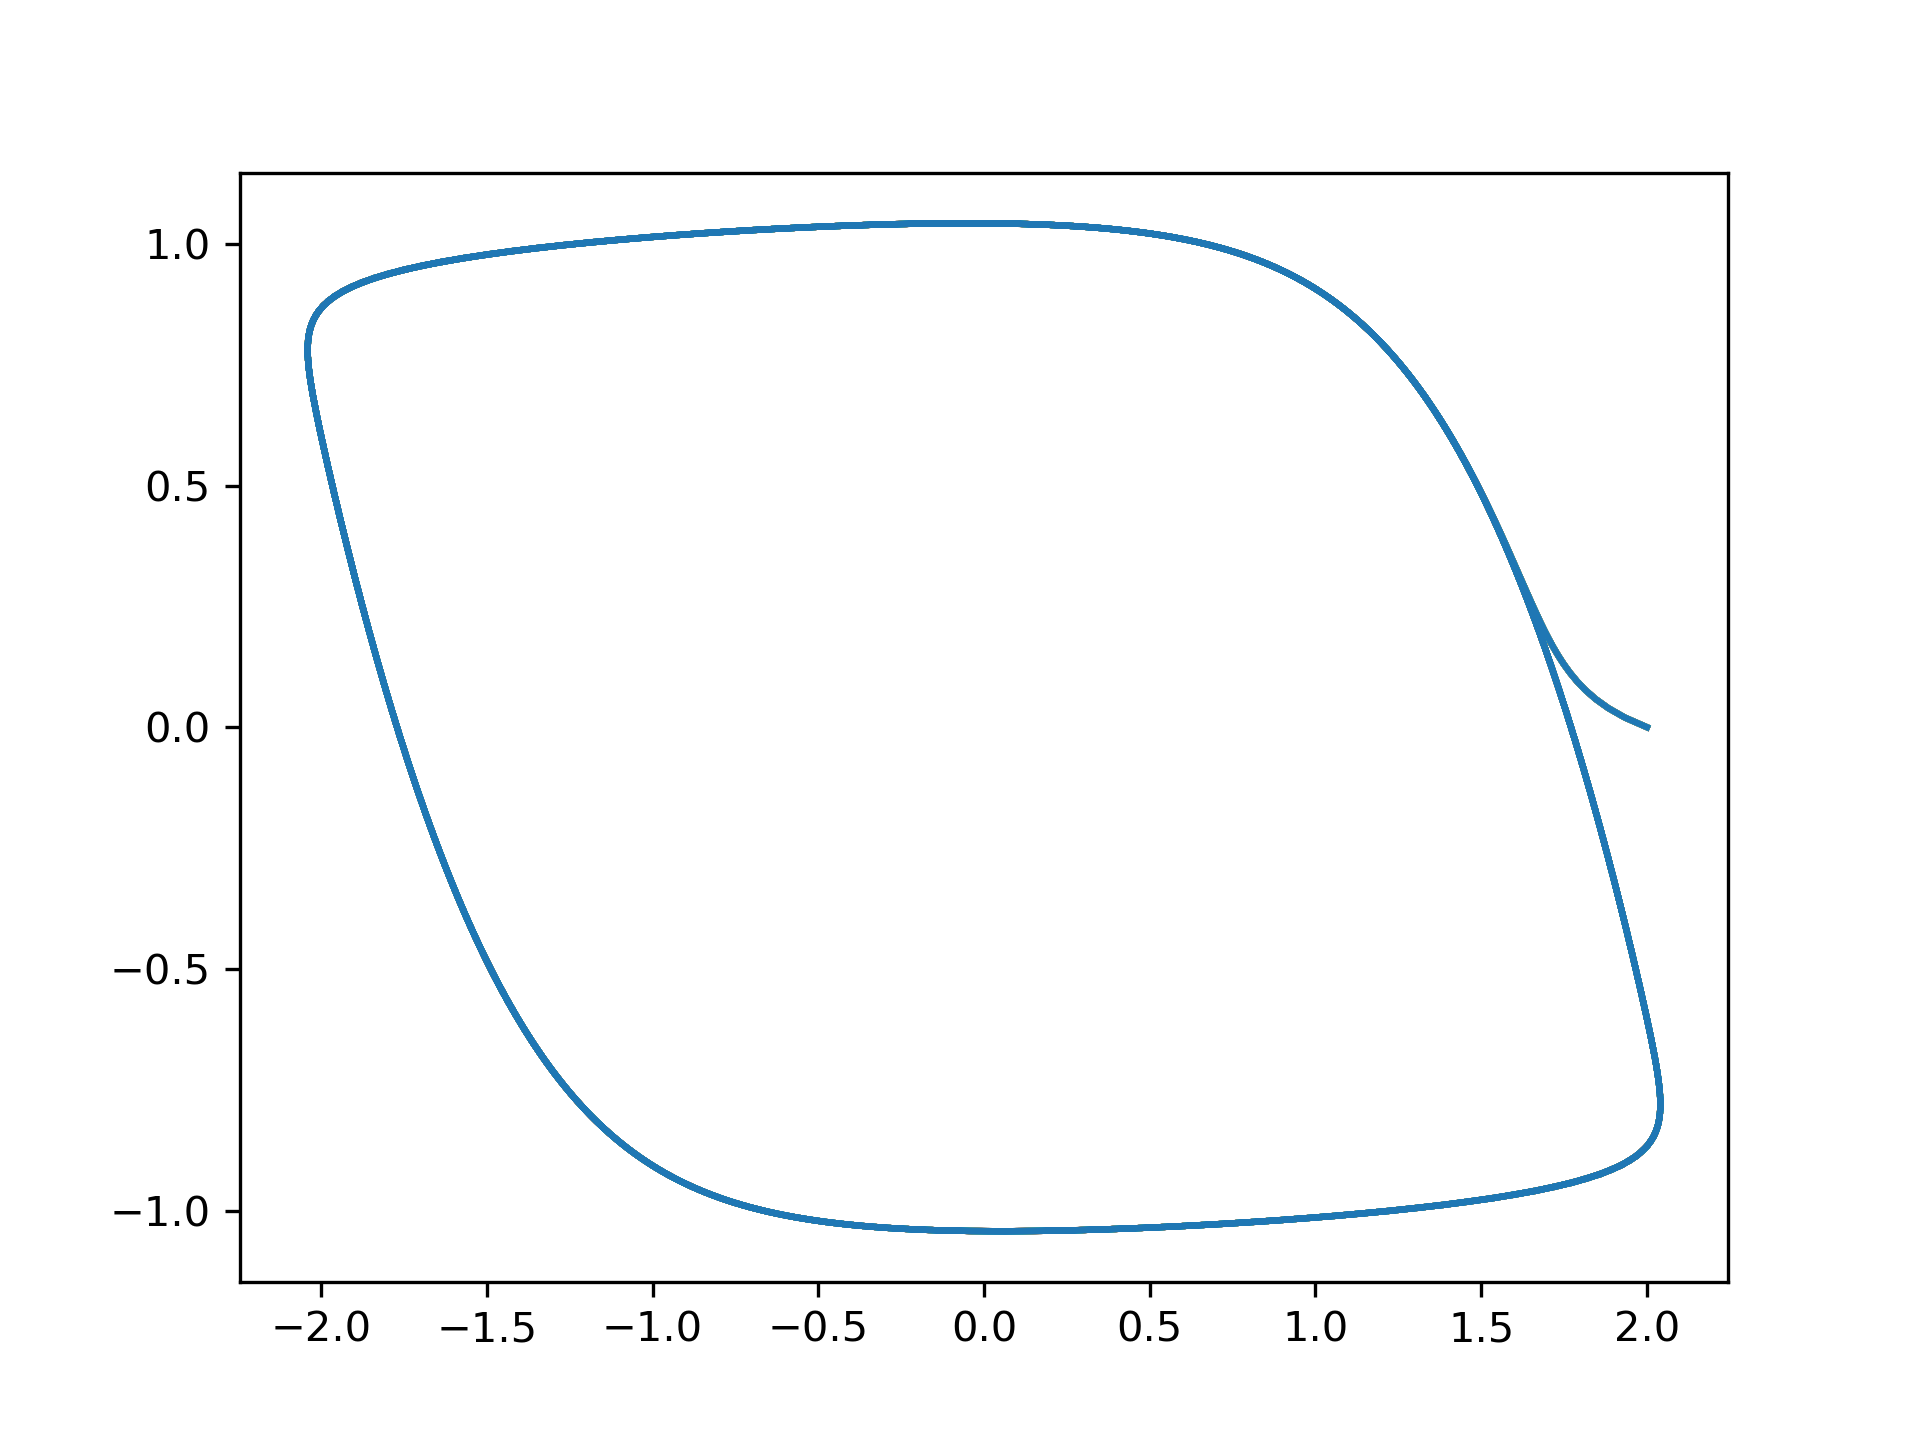
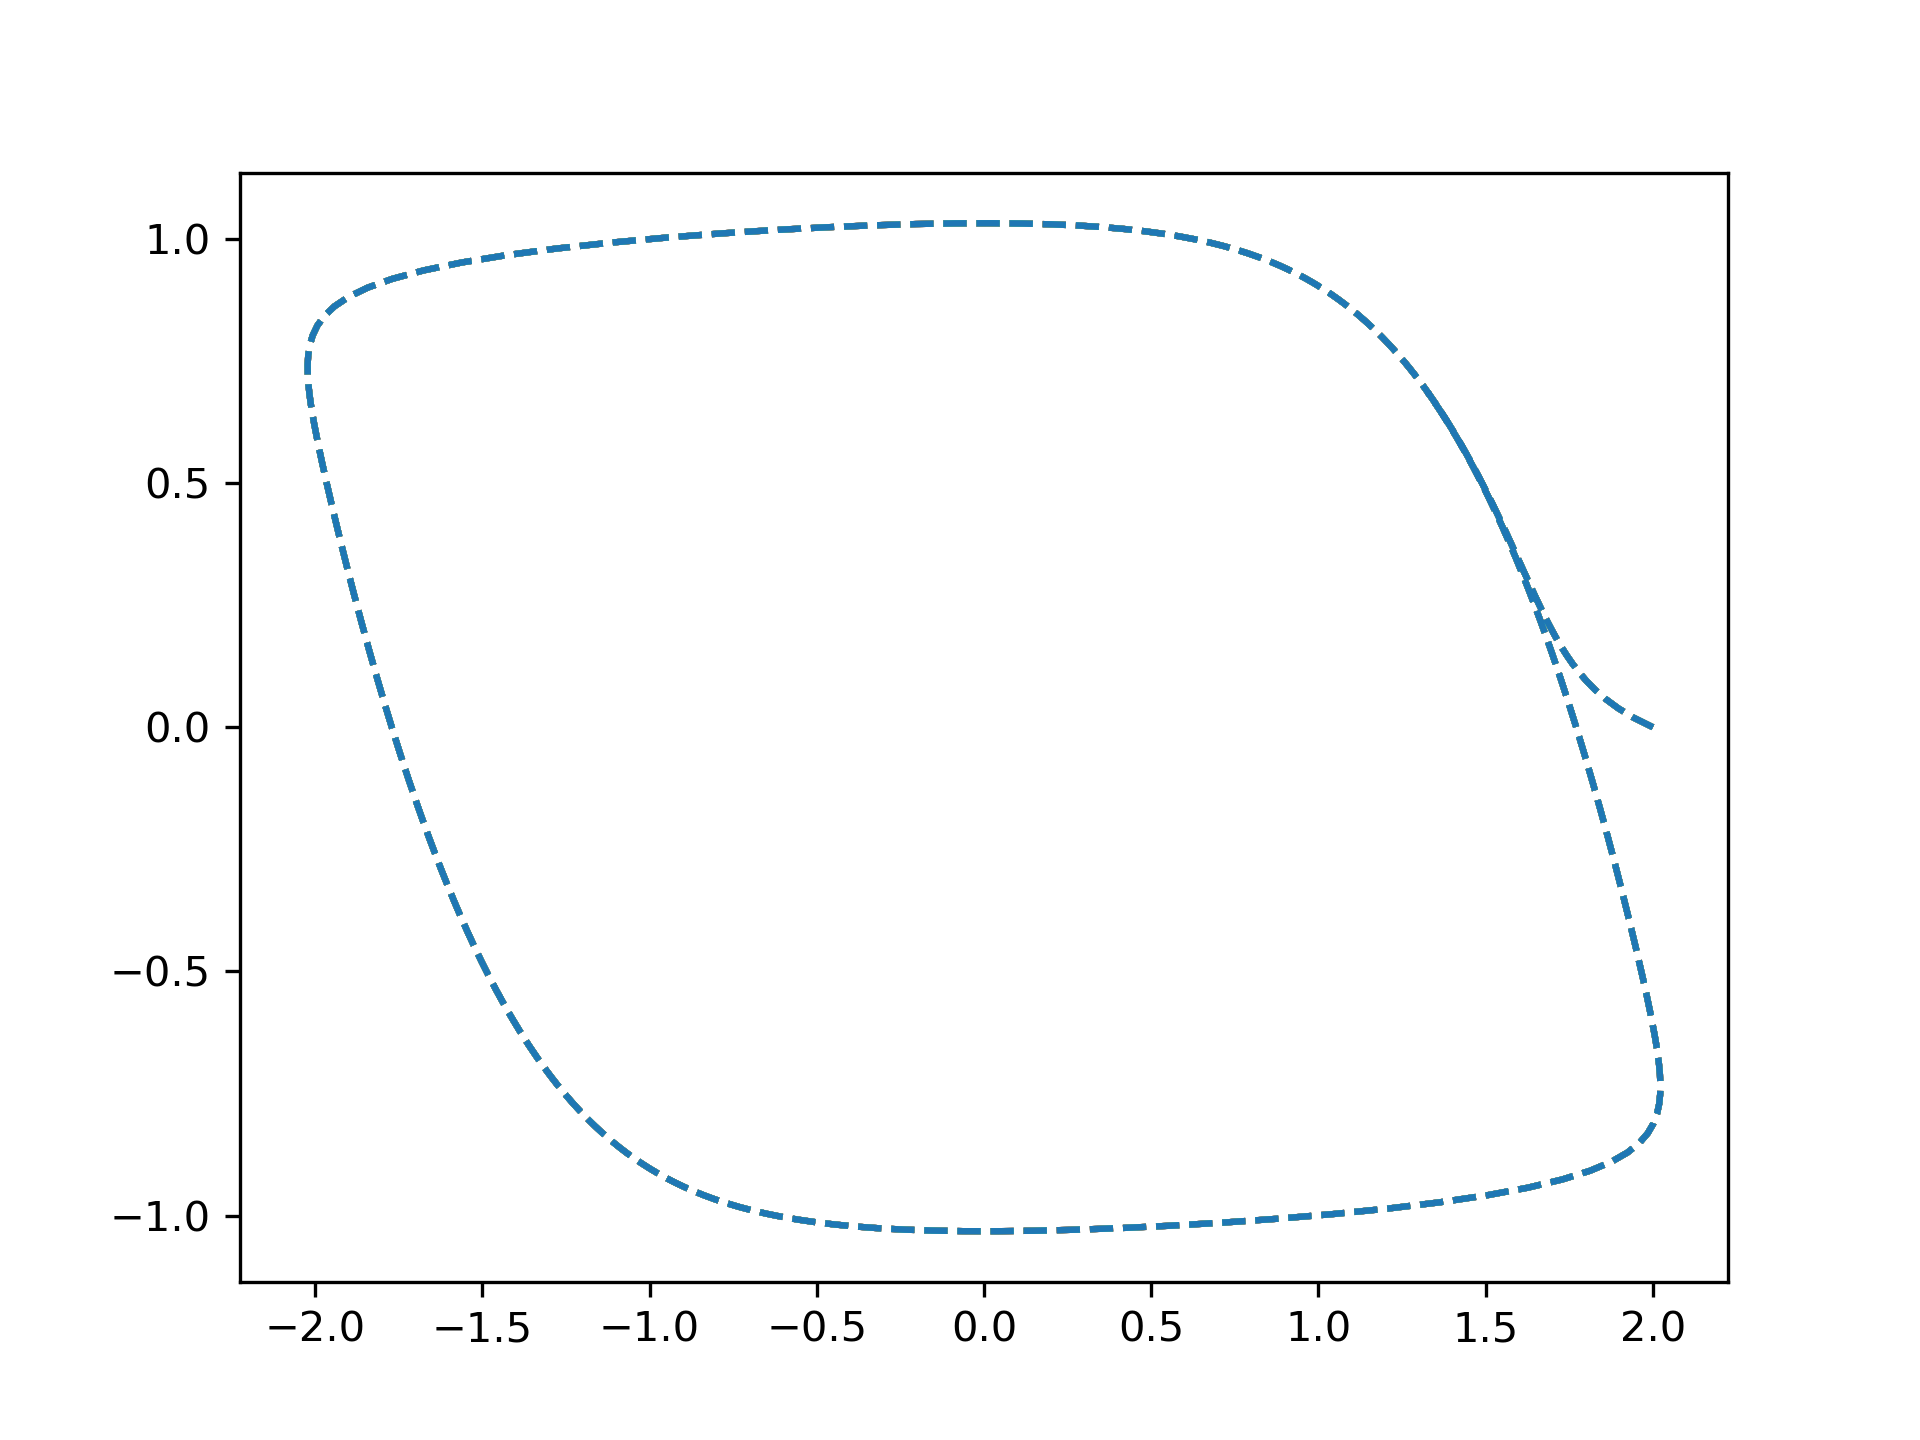
Midpoint method

diff --git a/VanderPol.py b/VanderPol.py
@@ -7,6 +7,7 @@ def VanderPolModel(
     x0: float, y0: float, dt: float, endTime: float, params: ModelParams
 ) -> tuple[float, float]:
     positionValues = [np.array([x0, y0])]
+    positionValues2 = [np.array([x0, y0])]
     numSteps = int(endTime / dt)
 
     for i in range(numSteps):
@@ -25,8 +26,17 @@ def VanderPolModel(
         # Append the new position to the list of position values
         positionValues.append(np.array([x, y]))
 
+        x2, y2 = midpoint_step_2d( 
+            # positionValues[-1] indicates the last position, 
+            # 0 indicates the x values 
+            # 1 indicates the y values
+            positionValues2[-1][0], positionValues2[-1][1], dt, dx_dt, dy_dt
+        )
+        # Append the new position to the list of positive values
+        positionValues2.append(np.array([x2,y2]))
+
     # Return the position values as a numpy array
-    return np.array(positionValues)
+    return np.array(positionValues), np.array(positionValues2)
 
 
 # Main function
@@ -40,7 +50,7 @@ if __name__ == "__main__":
     x0 = 2
     y0 = 0
     dt = 0.1
-    endTime = 100
+    endTime = 33
 
     fig, axs = plt.subplots()
     # Run the Van der Pol model for each value of I
@@ -48,13 +58,16 @@ if __name__ == "__main__":
         # Create the parameters for the FitzHugh-Nagumo model
         params = ModelParams(0, mu, 0, 0)
         # Run the FitzHugh-Nagumo model for the current value of I
-        positionValues = VanderPolModel(
+        positionValues, positionValues2 = VanderPolModel(
             x0, y0, dt, endTime, params
         )
         # Plot the position values on a graph
         xValues = positionValues[:, 0]
         yValues = positionValues[:, 1]
-        axs.plot(xValues, yValues)
+        xValues2 = positionValues2[:, 0] 
+        yValues2 = positionValues2[:, 1]
+        #axs.plot(xValues, yValues)
+        axs.plot(xValues2, yValues2, linestyle = "--")
     # Save the figure
     # Check if the directory exists, if not create it
     if not os.path.exists("VanderPol"):
